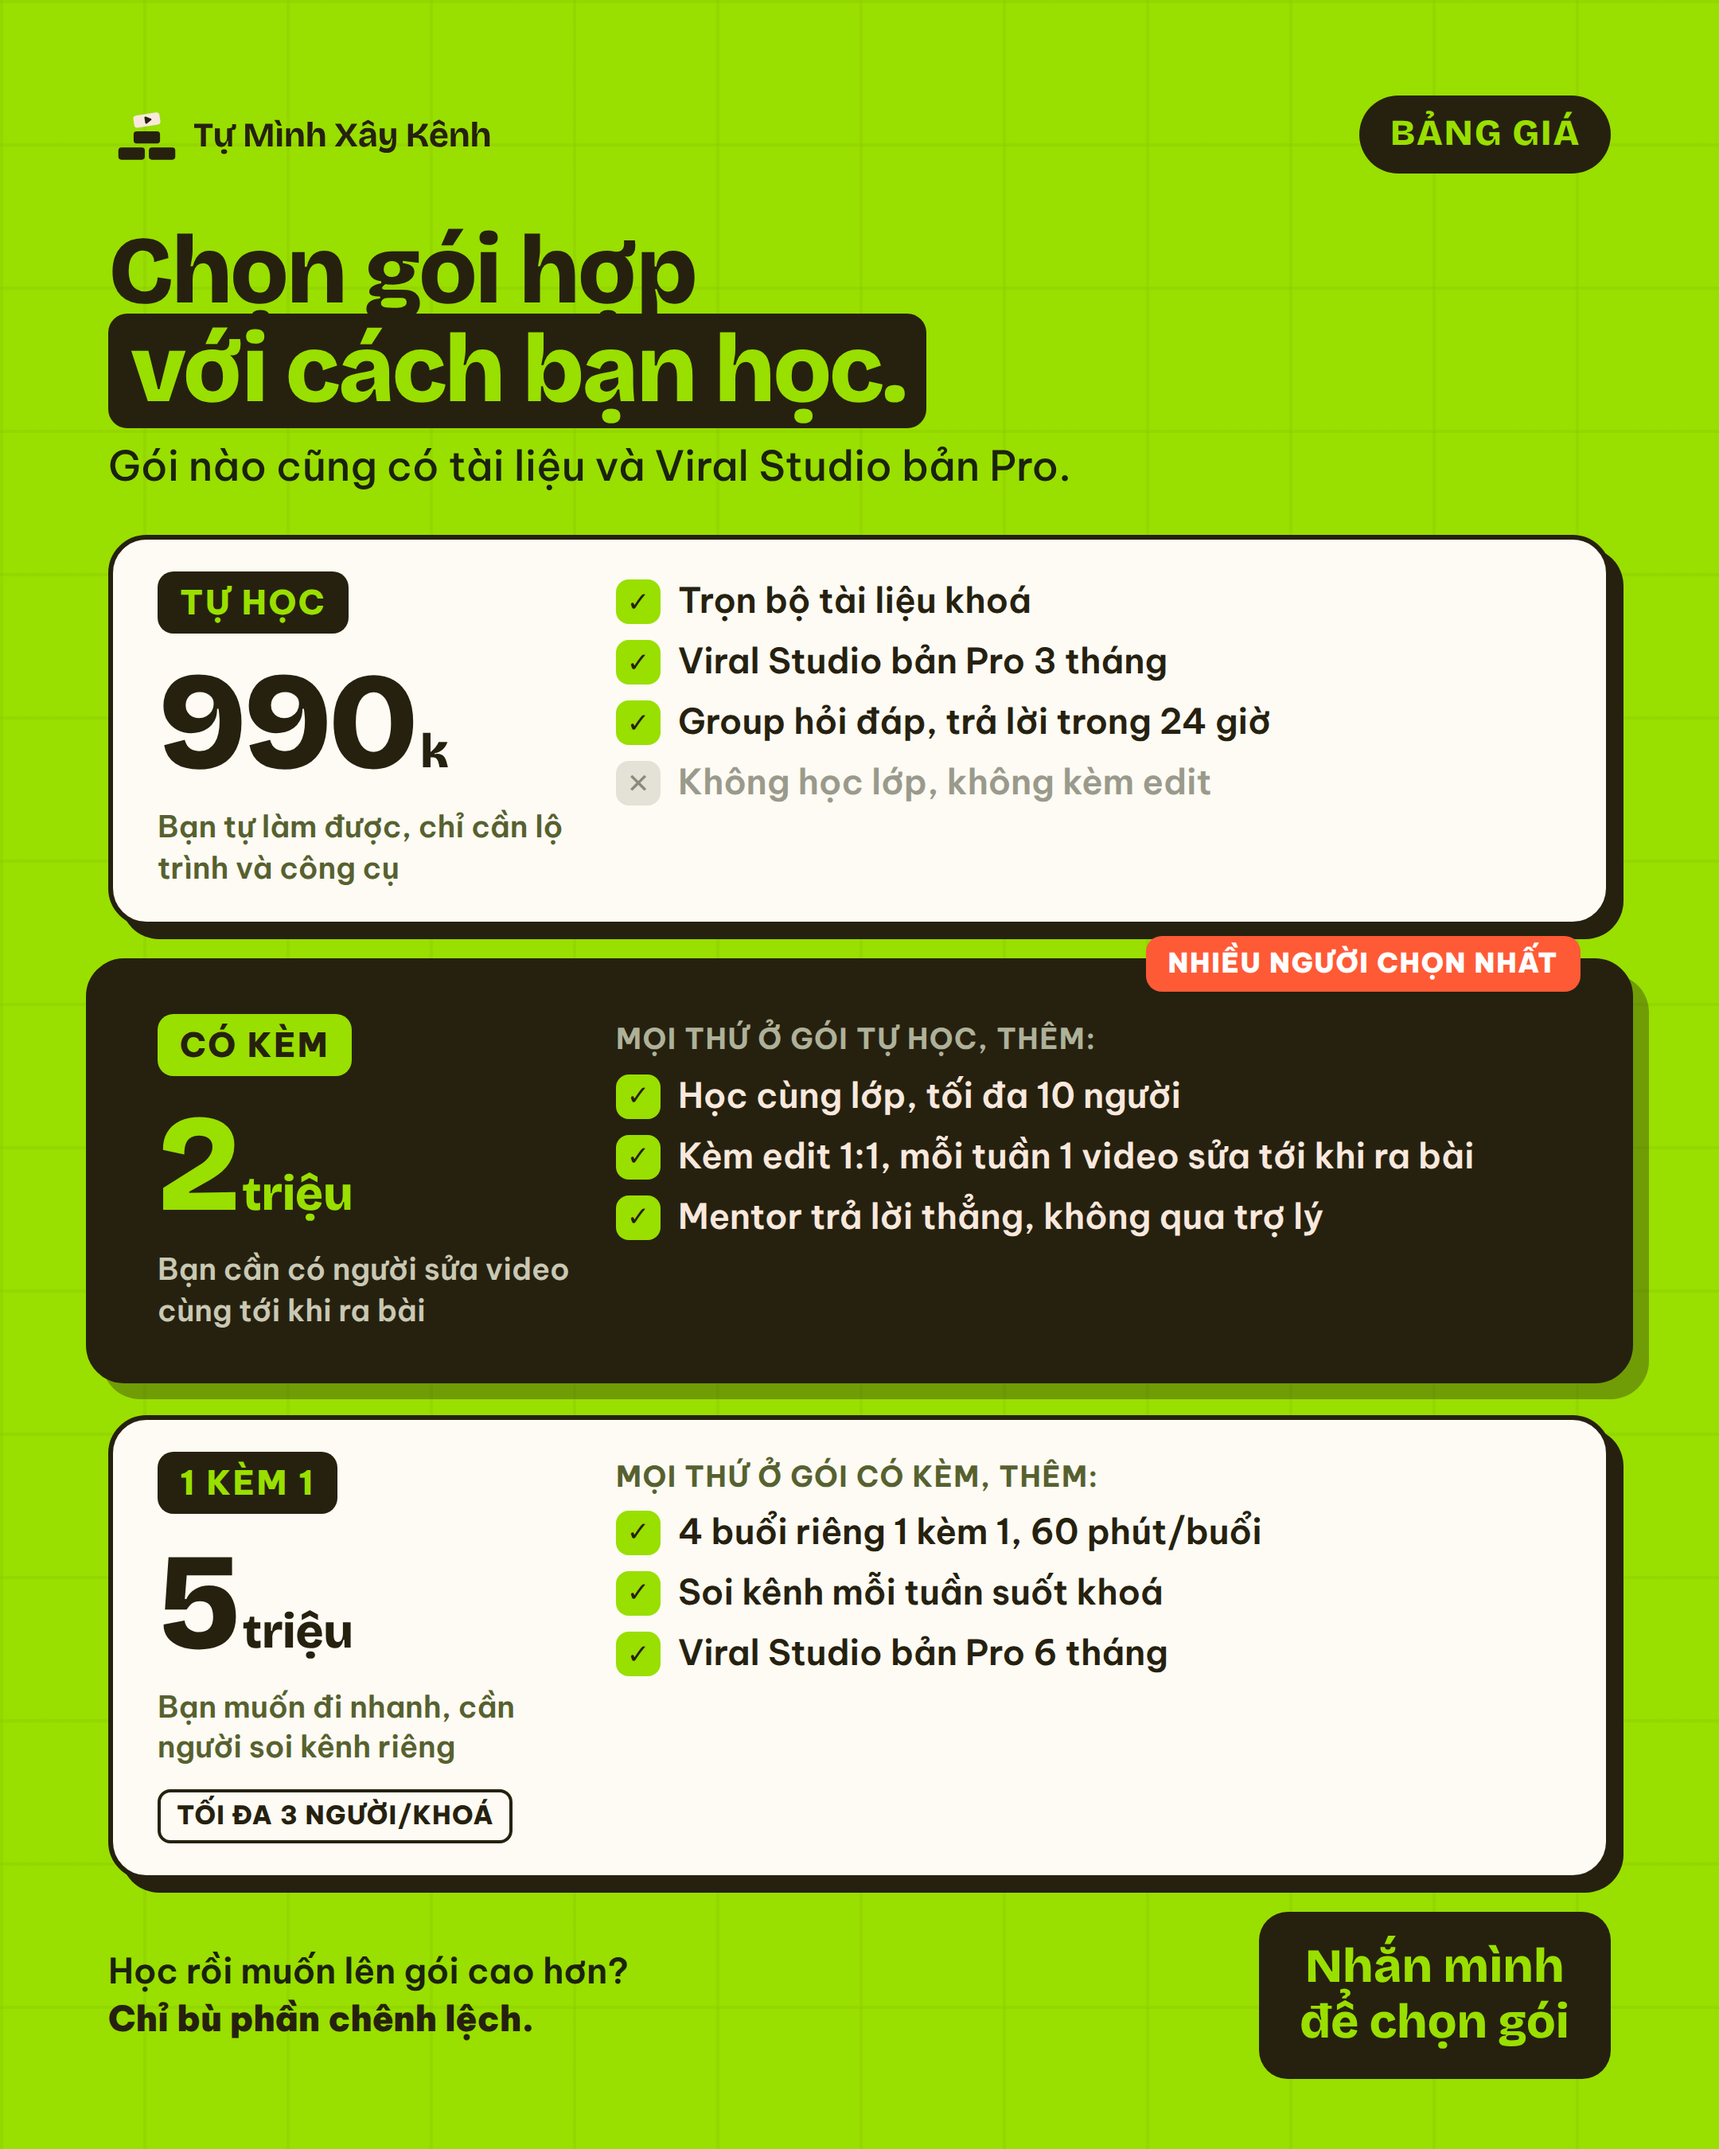
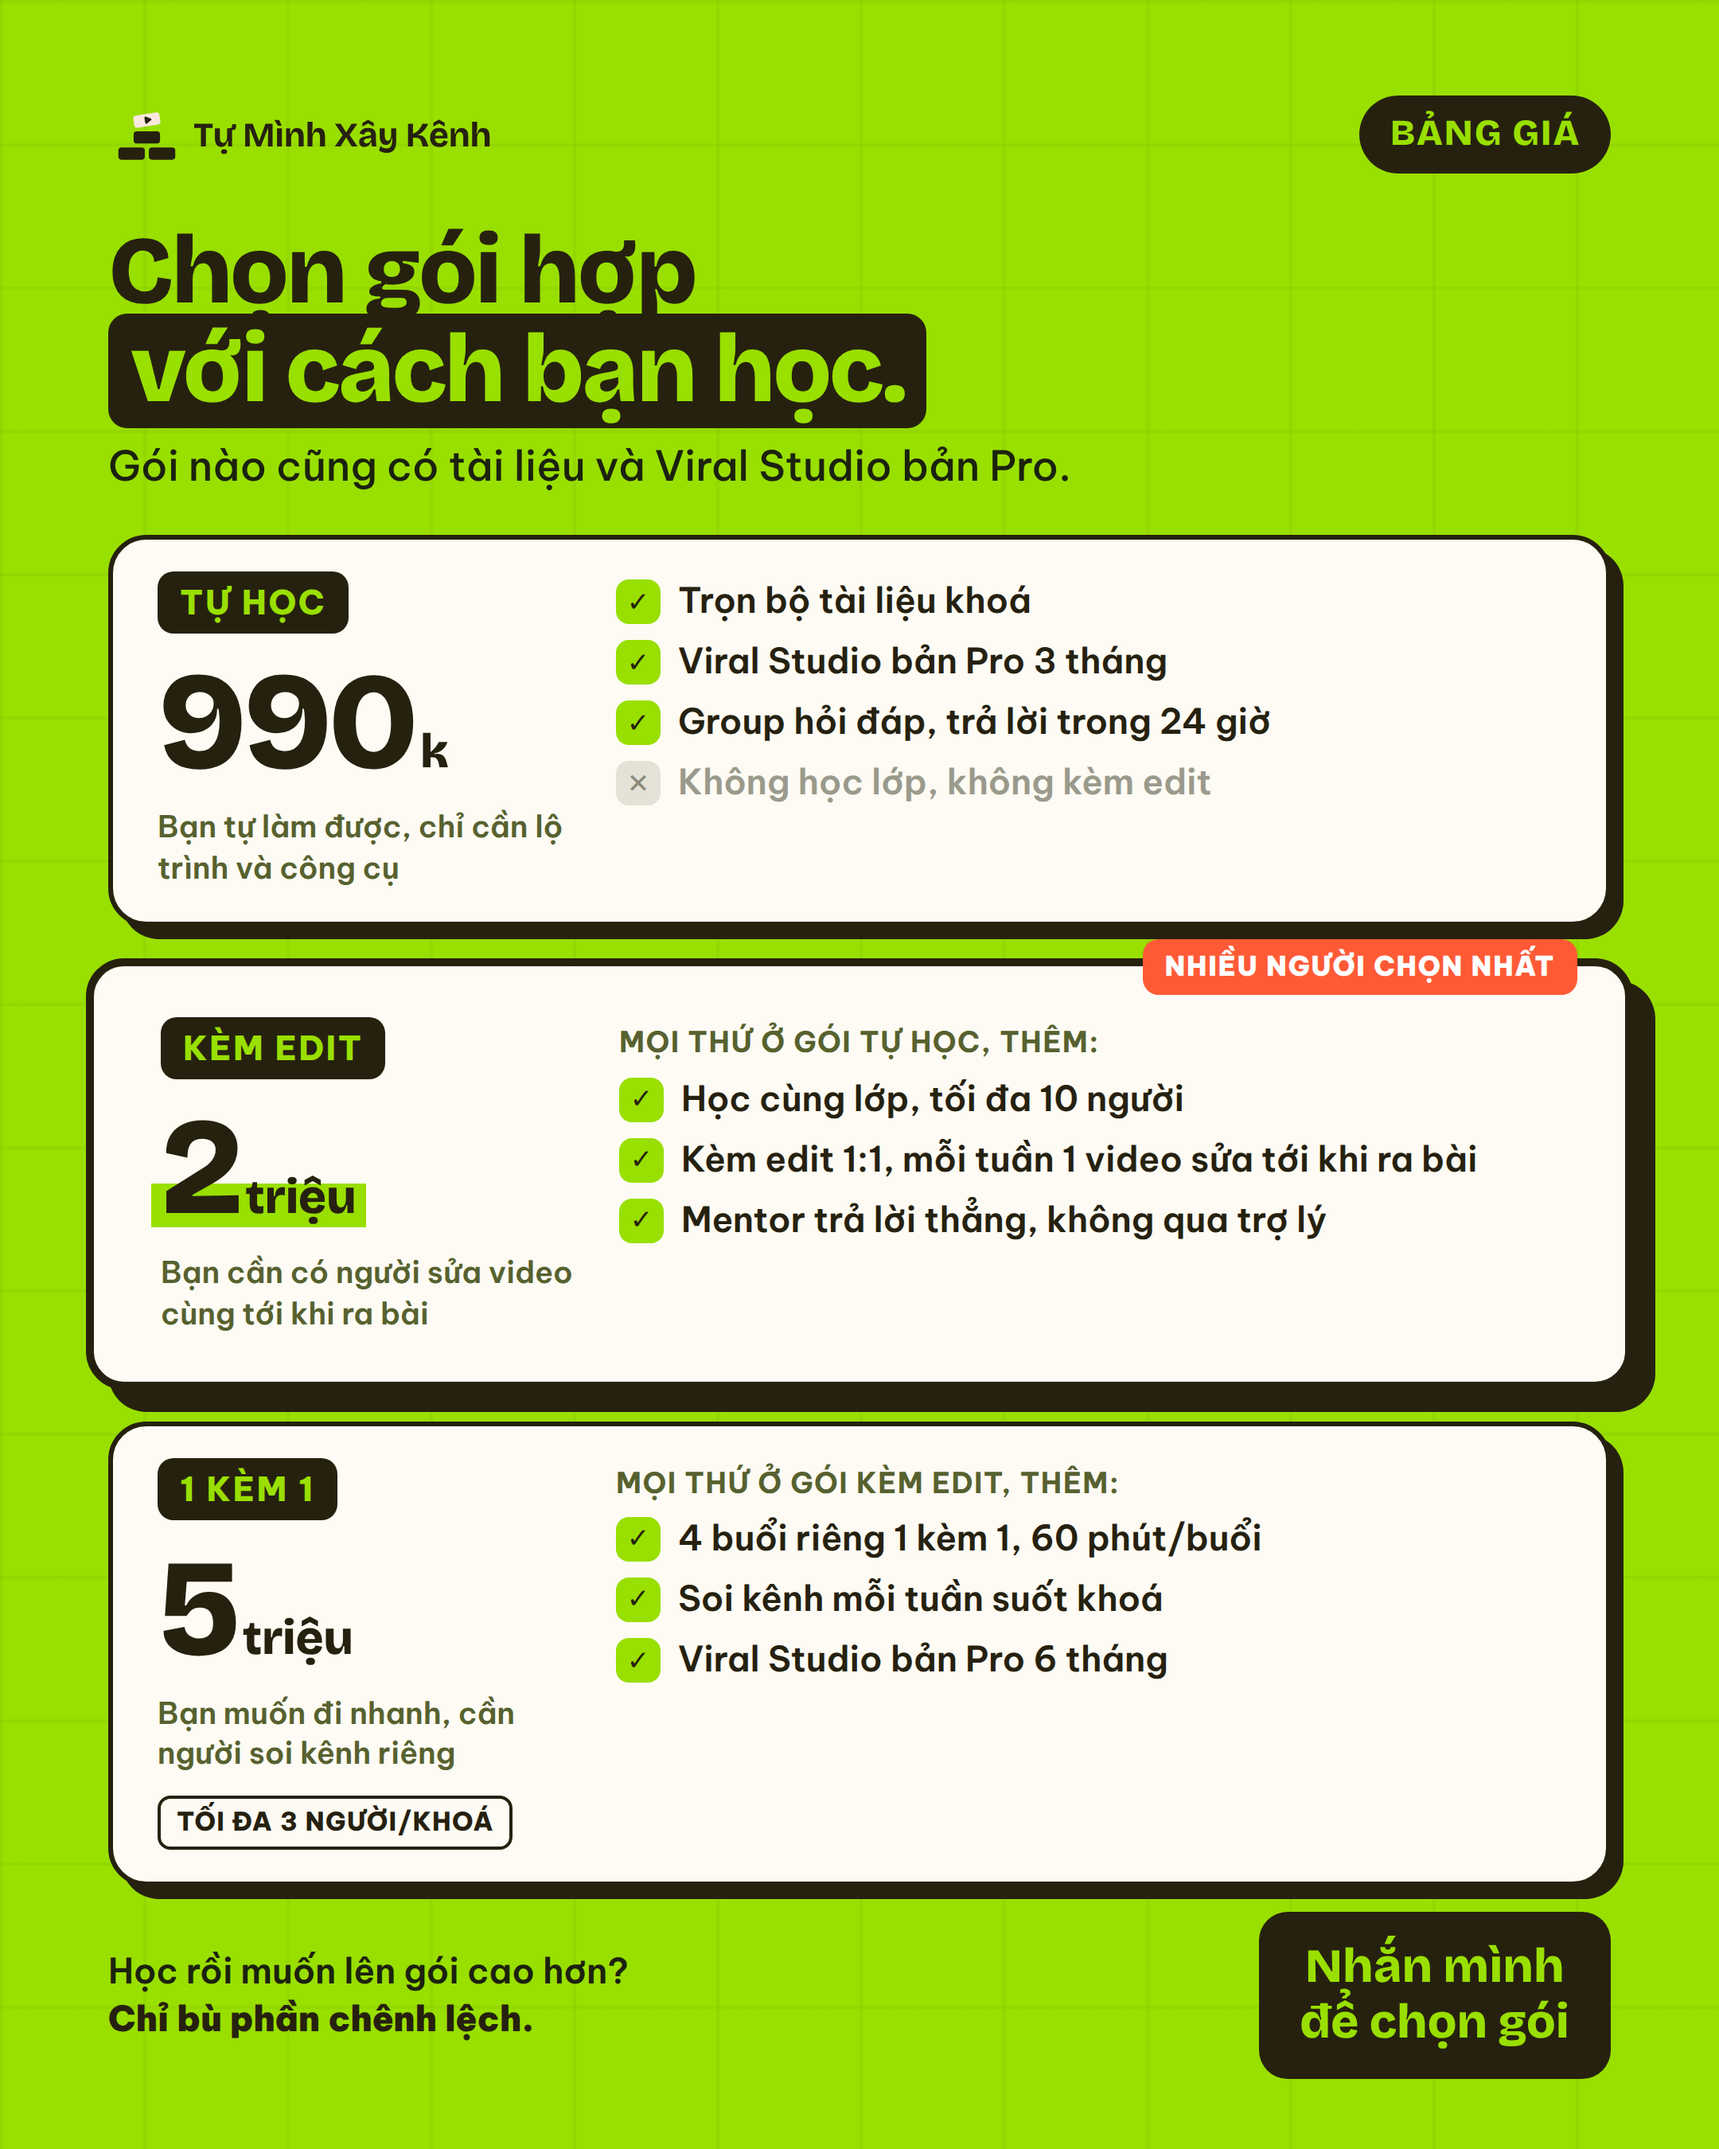
Poster bảng giá: gói giữa nền sáng, đổi tên Có kèm thành Kèm edit
Gói giữa giữ nổi bằng viền dày, bóng sâu, rộng hơn hai gói kia và vạch lime
dưới giá, không dùng nền mực nữa.

Claude-Session: https://claude.ai/code/session_01DLoQkHnYKA1ATrTvxbMQPm

Changed region(s): [[0.031, 0.4356, 0.9616, 0.9022]]

diff --git a/poster-fb/poster.html b/poster-fb/poster.html
@@ -321,11 +321,9 @@
   .goi li.khong::before{content:"✕";background:#e4e2d6;color:#8a8a7c}
   .goi li.them{font:700 18px/1.3 var(--font-ui);color:var(--muted);text-transform:uppercase;letter-spacing:.04em}
   .goi li.them::before{display:none}
-  .goi.chinh{background:var(--ink);color:var(--paper);margin:0 -14px;padding:32px 42px 28px;box-shadow:10px 10px 0 rgba(38,33,15,.35)}
-  .goi.chinh .ten{background:var(--lime);color:var(--ink)}
-  .goi.chinh .gia{color:var(--lime)}
-  .goi.chinh .ai{color:#c9c8b3}
-  .goi.chinh li.them{color:#aeb199}
+  /* gói giữa: cùng nền sáng, nổi bằng viền dày, bóng sâu, rộng hơn và vạch lime dưới giá */
+  .goi.chinh{margin:0 -14px;padding:32px 42px 28px;border-width:5px;box-shadow:14px 14px 0 var(--ink)}
+  .goi.chinh .gia{display:inline-block;background:linear-gradient(transparent 60%,var(--lime) 60%,var(--lime) 92%,transparent 92%);padding:0 6px;margin-left:-6px}
   .goi .tem{position:absolute;top:-17px;right:30px;font:900 17px/1 var(--font-ui);letter-spacing:.05em;text-transform:uppercase;
     background:var(--red);color:#fff;padding:9px 14px;border-radius:10px}
   .goi .cho{display:inline-block;margin-top:12px;font:800 16px/1 var(--font-ui);letter-spacing:.04em;text-transform:uppercase;
@@ -955,7 +953,7 @@
     </div>
     <div class="goi chinh">
       <span class="tem">Nhiều người chọn nhất</span>
-      <div class="trai"><span class="ten">Có kèm</span><div class="gia">2<small>triệu</small></div>
+      <div class="trai"><span class="ten">Kèm edit</span><div class="gia">2<small>triệu</small></div>
         <div class="ai">Bạn cần có người sửa video cùng tới khi ra bài</div></div>
       <ul>
         <li class="them">Mọi thứ ở gói Tự học, thêm:</li>
@@ -969,7 +967,7 @@
         <div class="ai">Bạn muốn đi nhanh, cần người soi kênh riêng</div>
         <span class="cho">Tối đa 3 người/khoá</span></div>
       <ul>
-        <li class="them">Mọi thứ ở gói Có kèm, thêm:</li>
+        <li class="them">Mọi thứ ở gói Kèm edit, thêm:</li>
         <li>4 buổi riêng 1 kèm 1, 60 phút/buổi</li>
         <li>Soi kênh mỗi tuần suốt khoá</li>
         <li>Viral Studio bản Pro 6 tháng</li>
